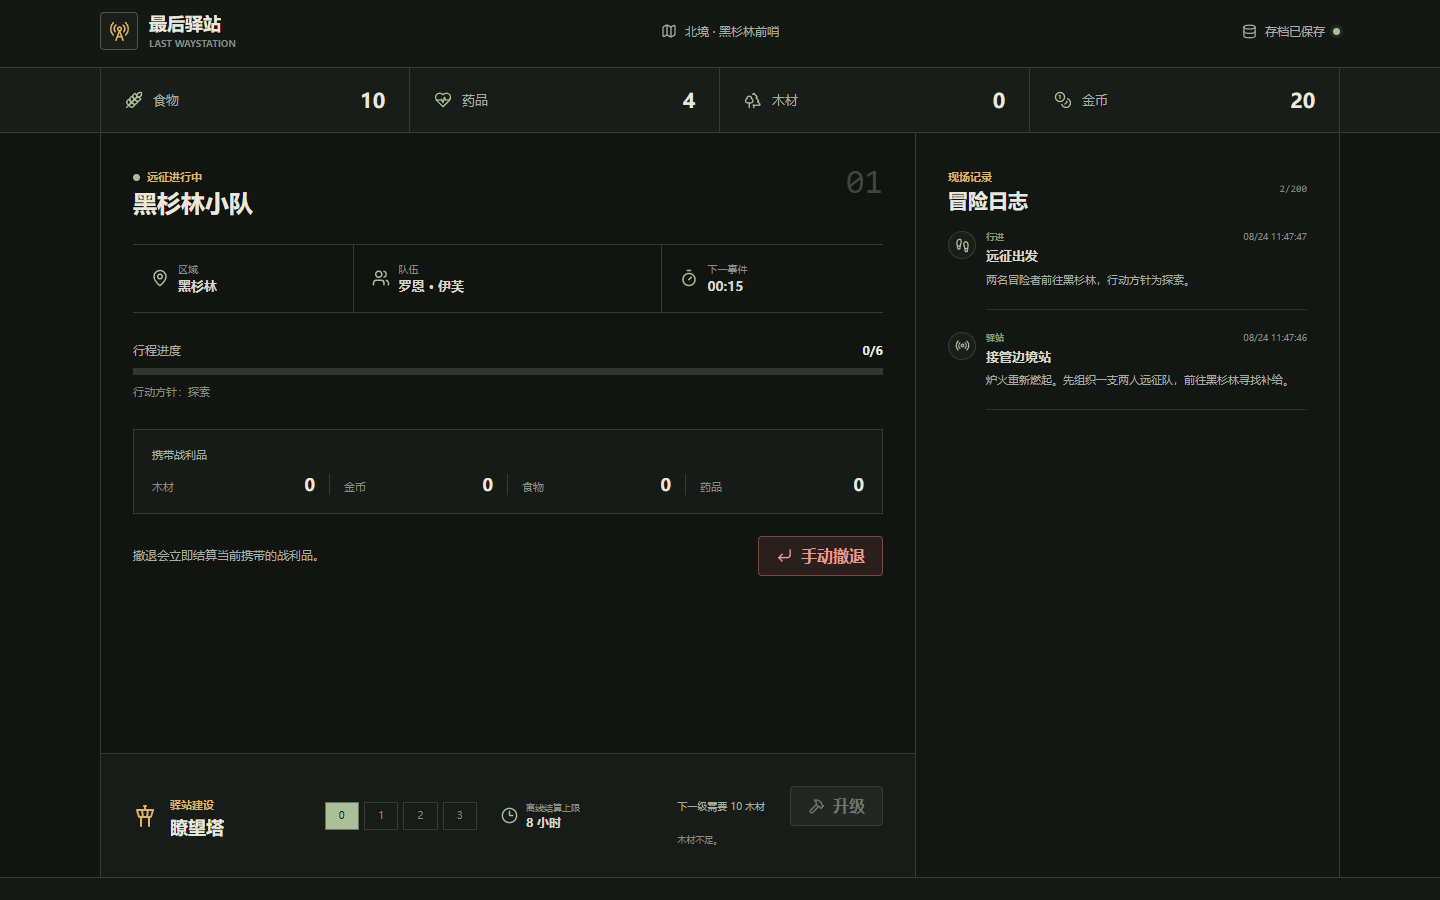
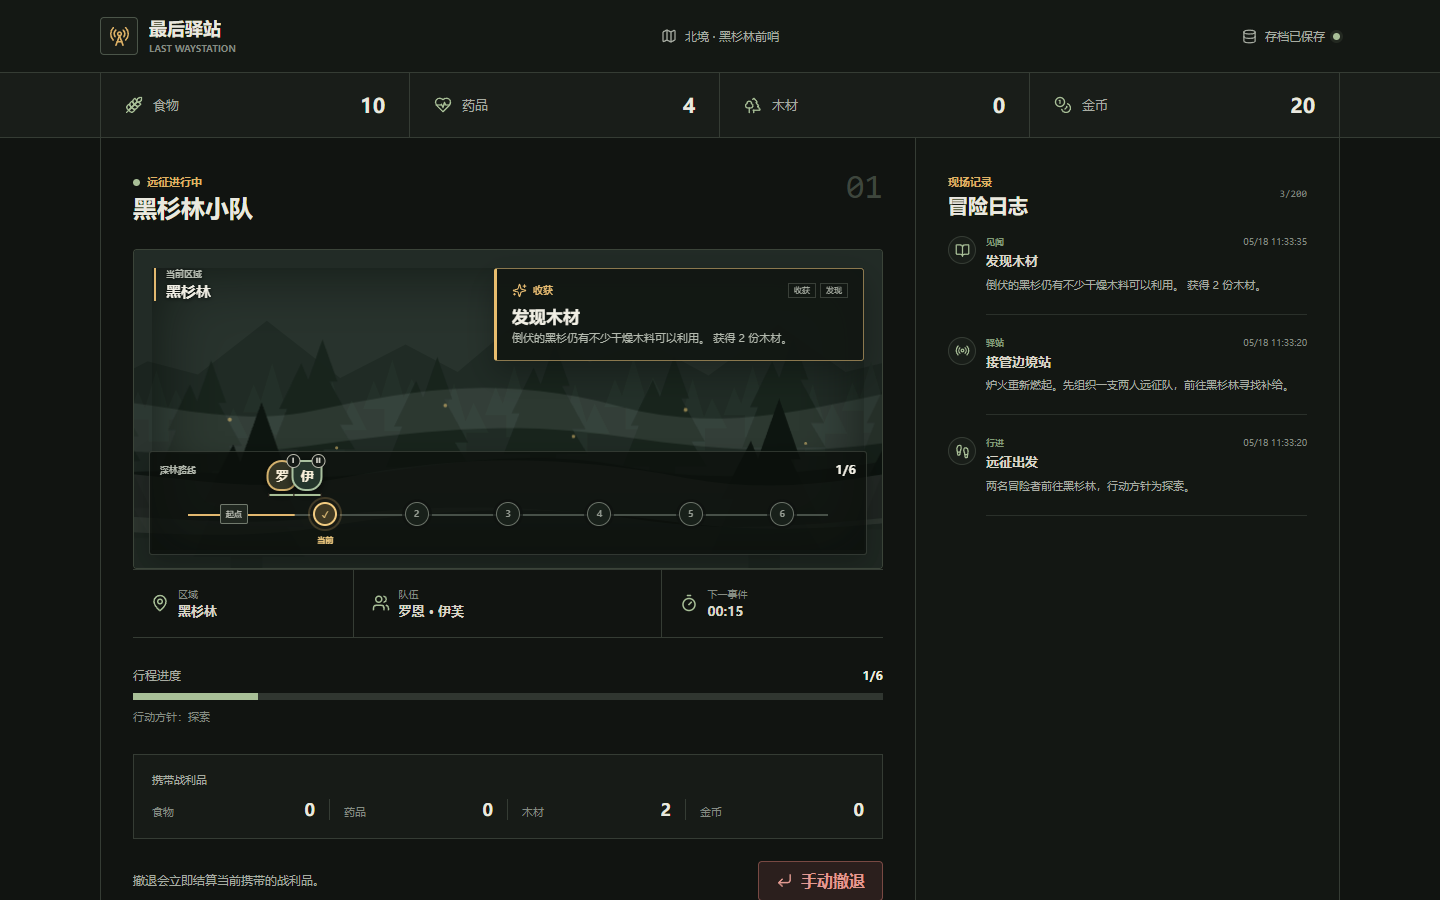
docs: document expedition presentation effects

diff --git a/docs/architecture/presentation-effects.md b/docs/architecture/presentation-effects.md
@@ -1,0 +1,115 @@
+# 表现效果架构
+
+阶段 2B 在核心模拟之上增加远征视觉演出，但不增加新的玩法规则。黑杉林场景、路线位移、事件卡片、伤害与战利品反馈、返程摘要和离线摘要都只是已结算状态的表现。
+
+## 单向数据流
+
+```text
+命令、计时或存档加载
+  -> advanceTo / 核心命令完成结算
+  -> 新 GameState
+  -> 集中状态替换入口记录 transition source
+  -> 纯函数比较前后 GameState
+  -> 临时 VisualEvent
+  -> 有界表现队列
+  -> React + CSS + 内联 SVG 展示
+```
+
+`src/core` 不导入 `src/presentation`。核心层只决定事件选择、伤害、奖励、返程、日志、RNG 和保存状态；表现层只能读取结算前后的快照，不能回写核心结果。
+
+以下内容永远不属于 `GameState`：
+
+- `VisualEvent` 和已消费 ID；
+- 当前事件卡片、浮动数字和动画计时器；
+- 返程或离线摘要的显示、关闭状态；
+- 动画偏好及页面可见性。
+
+因此切换 `system`、`full`、`reduced` 或 `off` 后，相同输入仍产生相同游戏状态和 RNG 状态。刷新、导入和导出也不会持久化或恢复一段动画。
+
+## 状态变化来源
+
+所有替换游戏状态的路径都通过集中入口携带 `GameTransitionSource`。来源是表现策略的输入，不是领域规则。
+
+| 来源 | 含义 | 表现策略 |
+| --- | --- | --- |
+| `bootstrap` | 从浏览器存档初始化并完成离线推进 | 仅在确有进展时显示离线摘要 |
+| `liveTick` | 前台常规计时推进 | 单事件可播放完整反馈，批量变化会合并 |
+| `startCommand` | 开始远征 | 显示队伍出发和路线起点 |
+| `retreatCommand` | 手动撤退 | 核心立即返程，再显示一次返程摘要 |
+| `debugAdvance` | 开发环境的确定性推进 | 短推进可完整显示，长推进使用摘要 |
+| `importSave` | 原子导入并完成必要推进 | 清除旧演出，只保留导入后的单份进展摘要 |
+| `resetGame` | 重置游戏 | 立即清空队列、摘要和旧计时器 |
+| `upgradeCommand` | 建筑升级 | 经过相同入口，但不会伪造远征事件 |
+| `debugCommand` | 其他开发环境状态命令 | 经过相同入口，但不会伪造远征事件 |
+| `backgroundRecovery` | 页面从后台恢复 | 把后台期间的变化合并为一份摘要 |
+
+集中标记来源可避免组件根据日志标题或时间差猜测操作，也让定时器始终通过最新状态引用执行。Strict Mode 的 effect 清理会撤销旧监听器和旧计时器，不能让过期闭包再次入队或保存。
+
+## VisualEvent 推导
+
+`deriveVisualEvents(previous, next, source)` 是无 DOM、无浏览器 API 的纯函数。它不修改输入，不读取 `Date.now()`，不调用 `Math.random()`；稳定 ID 由 transition 指纹、远征 ID、日志 ID、英雄或资源标识组合得到。同一组输入会得到相同顺序和相同 ID，队列可据此消除 Strict Mode 或重复提交造成的重复演出。
+
+表现层可推导以下临时事件：
+
+- `expeditionStarted`：从无活动远征变为有活动远征；
+- `partyAdvanced`：同一远征的 `processedEventCount` 增加；
+- `eventRevealed`：本次 transition 新增了正式主事件日志；
+- `heroDamaged` / `heroHealed`：英雄生命值的真实负差值或正差值；
+- `lootChanged`：同一活动远征 `carriedLoot` 的真实差值；
+- `expeditionReturned`：活动远征被核心结算并清除；
+- `progressSummary`：批量、离线、导入、后台或队列溢出的聚合结果。
+
+返程时携带物转入总资源只在返程摘要中计算一次，不会再伪装成新的掉落。`heroHealed` 只是对可能出现的正生命差值提供通用展示能力；当前阶段没有新增治疗事件或治疗玩法。
+
+## sourceEventId
+
+正式主事件生成日志时写入可选的 `JournalEntry.sourceEventId`。表现层用它查询事件注册表并取得 `safe`、`reward`、`danger`、`combat`、`discovery` 或 `recovery` 标签，标签优先级集中为：
+
+```text
+combat -> danger -> reward -> recovery -> discovery -> safe
+```
+
+`sourceEventId` 是可序列化的事件来源元数据，不是动画状态。系统日志、返程日志和普通追加日志不需要该字段。旧 V1/V2 日志缺少字段仍然合法；字段存在时必须是非空字符串，但注册表中暂时找不到该 ID 也不会使存档失效，事件卡片会按日志类别安全降级为通用样式。
+
+## 批量与队列
+
+一次状态变化可能跨过多个事件。表现层按实际处理数量压缩输出：
+
+| 一次处理量 | 输出 |
+| --- | --- |
+| 0 或 1 个事件 | 输出对应的完整临时事件 |
+| 2 至 3 个事件 | 最多保留最后一个重要事件，并追加聚合摘要 |
+| 超过 3 个事件 | 只输出一份 `progressSummary` |
+
+若同一批次已经返程，上述压缩结果会额外保留唯一的 `expeditionReturned`，供准备界面显示返程结算；它不会恢复被压缩的逐条事件演出。
+
+队列最多保留 8 项。超限时现有项按 transition 分组后折叠为一份摘要；事件数、完成远征数、资源差值和英雄生命差值会聚合，而不是静默丢弃。已见 ID 使用有界集合去重，每项只消费一次。
+
+`bootstrap`、`startCommand`、`importSave` 和 `backgroundRecovery` 使用替换语义，不会把新摘要或新远征接在陈旧演出后面。`importSave` 与 `resetGame` 还会清空表现层的已见 ID 集合，使导入较早存档或固定时间重开游戏后仍能正确呈现新的 transition；`resetGame` 同时清空队列。Provider 统一拥有展示计时器，卸载、导入或重置时会取消旧计时器；动画结束回调只消费表现项，绝不修改正式游戏状态。
+
+## 后台与离线
+
+页面隐藏时，CSS 环境循环暂停，正式推进仍由既有计时和 `advanceTo` 负责。`visibilitychange` 监听只改变表现策略：后台期间不积压逐条卡片，回到前台后把实际变化合并为一份 `background` 摘要。若恢复后的撤退或升级命令让远征返程，则以后台首个快照和命令后的最终状态生成唯一返程摘要，避免把携带战利品同时显示为后台收入和返程收入。监听器在 Provider 卸载时移除。
+
+浏览器启动和存档导入继续走既有流程：解码、迁移、归一化、`advanceTo`。仓储层保留推进前的合法归一化状态，与推进后的状态纯比较，只把 `GameTransitionSummary` 作为不持久化的加载元数据返回；完整旧状态不会暴露给 UI。没有实际事件、返程、资源或生命变化时不显示离线摘要，刷新也不会重放已保存日志的演出。
+
+## 动画偏好
+
+动画偏好使用独立 key `last-waystation.ui-preferences.v1`，不会进入游戏存档，也不会被游戏导入或重置覆盖。页面根节点的 `data-motion-preference` 保存用户选择，`data-motion` 保存解析后的有效模式：
+
+- `system`：根据 `prefers-reduced-motion: reduce` 解析为 `reduced`，否则为 `full`；
+- `full`：启用环境循环、路线位移、轻量事件卡片与浮动反馈；
+- `reduced`：移除大幅位移、震动和视差，以短淡入或即时更新保留状态提示；
+- `off`：关闭所有非必要动画，但保留静态场景、路线、数字和文字摘要。
+
+偏好读取失败、JSON 损坏或值非法时回退到 `system`。CSS 必须同时尊重有效 `data-motion` 与系统 reduced-motion 承诺；隐藏动画绝不能隐藏信息。
+
+## 实现边界
+
+- 场景使用 React、CSS、内联 SVG 和已有本地图标，不发起远程图片或动画资源请求。
+- 环境循环只修改 `transform` 和 `opacity` 等合成友好属性，不驱动 React 每帧更新。
+- 路线节点数来自 `activeExpedition.maxEventCount`，当前正式内容为六个事件，但表现层不硬编码六节点。
+- 事件卡片不会抢焦点；精简后的结果会进入 `aria-live="polite"`，完整日志继续承担叙事。
+- 动画不能延迟 `activeExpedition` 清除、奖励结算、自动保存或用户操作。
+
+视觉验证方法见 [视觉测试指南](../development/visual-testing.md)。

diff --git a/docs/development/visual-testing.md b/docs/development/visual-testing.md
@@ -1,0 +1,130 @@
+# 视觉测试指南
+
+阶段 2B 的视觉测试验证状态表达、动画策略、响应式布局和生产资源，而不是逐帧复刻 CSS 动画。游戏结果仍由核心单元测试和流程 E2E 验证。
+
+## 准备环境
+
+安装锁文件依赖和 Chromium：
+
+```bash
+npm ci
+npx playwright install chromium
+```
+
+常规开发 E2E 会按 Playwright 配置自动启动开发服务器。生产冒烟需要先生成 `dist/`：
+
+```bash
+npm run build
+npm run test:e2e:prod
+```
+
+运行全部开发 E2E：
+
+```bash
+npm run test:e2e
+```
+
+只运行视觉相关套件：
+
+```bash
+npx playwright test tests/e2e/expedition-visuals.spec.ts tests/e2e/motion-preferences.spec.ts tests/e2e/offline-summary.spec.ts
+```
+
+需要人工观察过渡时使用 headed 模式；断言仍应等待可访问名称、测试 ID、日志或存档状态等语义结果：
+
+```bash
+npx playwright test tests/e2e/expedition-visuals.spec.ts --headed
+```
+
+失败时检查 `test-results/` 中的截图和 trace，以及 `playwright-report/`。这些目录是临时产物，不能提交。
+
+## 动画模式矩阵
+
+动画控制位于界面的“动画效果”字段组。测试可通过可访问标签选择模式，并检查根节点属性：
+
+| 选择 | `data-motion-preference` | 有效 `data-motion` | 核心检查 |
+| --- | --- | --- | --- |
+| 跟随系统 | `system` | `full` 或 `reduced` | 与浏览器 `prefers-reduced-motion` 一致 |
+| 完整 | `full` | `full` | 环境循环和过渡可用，状态立即完成结算 |
+| 简化 | `reduced` | `reduced` | 无大幅位移、震动或视差，文字反馈保留 |
+| 关闭 | `off` | `off` | 非必要动画关闭，静态场景与全部信息保留 |
+
+系统模式用 Playwright context 的 `reducedMotion: 'reduce'` 和 `reducedMotion: 'no-preference'` 分别验证。切换设置应即时生效并写入 `last-waystation.ui-preferences.v1`；刷新、导入游戏存档和重置游戏后选择应保持。不要把 UI 偏好写进合成游戏存档。
+
+普通业务 E2E 默认使用 reduced motion，减少时间相关波动。专门验证视觉演出时显式选择完整模式，验证功能降级时再分别选择简化或关闭模式。无论哪种模式，核心状态、日志、资源、英雄生命和 RNG 断言必须一致。
+
+## 确定性场景
+
+不要等待多个真实的 15 秒周期。视觉 E2E 应复用 `tests/e2e/testHarness.ts` 的合法 V2 合成状态和存档写入方式，固定 `savedAt`、活动远征、事件时间及 RNG 状态，再通过开发推进工具或到期的正式 tick 触发变化。
+
+每类反馈至少同时验证视觉提示和正式结果：
+
+- 场景：黑杉林背景存在，路线节点数等于存档中的 `maxEventCount`，初始和推进后的数字进度正确；
+- 事件：卡片或静态提示出现，冒险日志新增同一正式事件；
+- 伤害：反馈关联实际受伤英雄，显示值等于英雄生命差值；
+- 战利品：资源提示等于 `carriedLoot` 差值，返程转存不重复显示掉落；
+- 返程：核心远征、资源和自动保存先完成，摘要只出现一次，刷新后不重放；
+- 离线：注入保存时间和事件时间位于过去的合法 V2 活动远征，只出现一份聚合摘要，日志仍包含正式结算；
+- 后台：隐藏页面期间不积压卡片，恢复后只有合并摘要，推进结果不受可见性影响。
+
+测试存档不得含个人信息，也不能绕过存档解码、迁移、归一化或 `advanceTo`。损坏存档路径不得伪造离线摘要。
+
+## 断言原则
+
+- 等待语义状态，不用大段 `waitForTimeout` 猜测动画结束时间。
+- 不断言某一帧的坐标、透明度、雾的位置或抖动角度。
+- 不把易变 CSS 类名当作主要定位；必要时使用稳定且有限的 `data-testid`。
+- 不要求事件卡片获取焦点；检查 `aria-live="polite"` 的精简文字和日志即可。
+- 不用颜色作为唯一断言；同时检查标签、图形、边框状态或可访问文本。
+- 不为每个动画帧创建截图快照。截图只覆盖有代表性的稳定状态和布局回归。
+- 不通过延长任意超时掩盖竞态。失败时先查看 trace 中的状态替换、存档和可见性事件。
+
+## 视口检查
+
+至少检查以下视口：
+
+| 视口 | 重点 |
+| --- | --- |
+| 1440 x 900 | 场景、状态区和日志的桌面信息层级 |
+| 768 x 1024 | 中等宽度下的栏位折行和摘要布局 |
+| 390 x 844 | 常见移动端的场景高度、设置触控和日志滚动 |
+| 360 x 800 | 路线节点、长文本和摘要无横向溢出 |
+
+在每个移动视口检查 `document.documentElement.scrollWidth <= document.documentElement.clientWidth`，同时确认事件卡片不会遮挡撤退按钮，浮动结果不会越出场景，动画设置可操作，日志可滚动且不依赖 hover。
+
+## 生成生产截图
+
+提交的截图必须来自最新生产构建。先构建并启动预览，使用 Vite 在终端输出的地址，不要在文档、提交信息或截图中记录临时地址：
+
+```bash
+npm run build
+npm run preview
+```
+
+使用浏览器自动化写入完全合成且通过 V2 校验的活动远征存档，然后重新加载应用。选择“完整”模式，触发一个确定性事件并停在可读的静态时刻；画面应展示黑杉林场景、路线、两名英雄标记、数字进度，以及事件卡片或当前结果。不得显示开发推进工具、浏览器开发工具、个人数据、本机路径或令牌。
+
+分别设置并保存：
+
+| 输出 | 视口 |
+| --- | --- |
+| `docs/images/game-desktop.png` | 1440 x 900 |
+| `docs/images/game-mobile.png` | 390 x 844 |
+
+截图后用生产构建再检查一次：控制台无项目错误，HTML、JS、CSS、图标和本地场景资源无 404，没有远程图片请求；移动截图无横向溢出，关键按钮和日志仍可见。PNG 应按实际界面尺寸导出并保持合理文件大小，不提交视频、GIF、Playwright 报告或其他临时产物。
+
+## 提交前检查
+
+视觉改动除相关定向测试外，还必须通过完整验证：
+
+```bash
+npm run lint
+npm run typecheck
+npm run validate:content
+npm run test:run
+npm run simulate:balance:check
+npm run build
+npm run test:e2e
+npm run test:e2e:prod
+```
+
+在 Pull Request 中记录桌面、390 px 和 360 px 的人工检查，完整、简化、关闭及系统 reduced motion 结果，后台恢复和离线摘要结果，以及构建体积、控制台错误和资源 404 数量。视觉层不能改变平衡模拟、`advanceTo` 语义、事件奖励或 RNG 顺序。

diff --git a/CONTRIBUTING.md b/CONTRIBUTING.md
@@ -60,3 +60,14 @@ npx playwright install chromium
 - 平衡报告中的差异先作为客观观察记录；除非违反不变量，不要把内容 PR 扩大为无关的大规模调平衡。
 
 完整示例与字段说明见 [内容创作指南](docs/development/content-authoring.md)。更多英雄、区域、装备、制作和大规模事件内容仍需先通过功能建议 Issue 讨论范围。
+
+## 视觉贡献
+
+- 视觉演出只能表现已经完成的核心结算。不得从动画回调修改 `GameState`，不得用 UI 定时器推进远征，也不得为了等待动画而延迟奖励、返程、自动保存或其他正式状态变化。
+- 表现逻辑放在 `src/presentation` 或对应展示组件中，不能进入 `src/core`；核心层也不能反向导入 `VisualEvent`、React、DOM 或浏览器 API。详细依赖边界见 [表现效果架构](docs/architecture/presentation-effects.md)。
+- 不得把动画队列、持续时间、关闭状态或临时摘要写入游戏存档，也不得让视觉代码消费或改变 RNG。动画偏好使用独立的 UI 偏好存储。
+- 场景资源必须随仓库提供。不要新增远程图片、字体、视频、GIF、动态脚本或第三方动画引擎；优先使用轻量的 React、CSS、内联 SVG 和现有图标。
+- 每个视觉变化都必须支持 `prefers-reduced-motion` 和游戏内简化、关闭模式。关闭动画后，进度、事件结果、伤害、战利品及返程或离线摘要仍须有完整文字表达。
+- 装饰图形应对辅助技术隐藏；核心进度需要可读数字，事件提示使用克制的 live region，颜色不能是唯一的状态区别，也不得加入高频闪烁。
+- 视觉 Pull Request 需要验证至少 1440 x 900、390 x 844 和 360 x 800 的布局，提供桌面与移动端结果，并记录控制台错误、资源加载失败和横向溢出检查。
+- 测试应等待语义状态，不等待动画的固定毫秒或比较每一帧。业务流程默认减少动画，专门的视觉用例再显式启用完整模式。运行方式和生产截图要求见 [视觉测试指南](docs/development/visual-testing.md)。

diff --git a/CHANGELOG.md b/CHANGELOG.md
@@ -10,18 +10,26 @@
 - 英雄固定特质元数据、内容注册表与 `validate:content` 结构化校验 CLI。
 - 复用正式命令、RNG、返程结算和 `advanceTo` 的确定性平衡模拟器，区分 onboarding 与 steady-state。
 - Save Schema V2，以及已解锁区域、医务室等级、英雄特质 ID 和远征旗标字段。
+- 动态剪影式黑杉林远征场景、按 `maxEventCount` 生成的路线节点和两名英雄标记。
+- 事件卡片、对应英雄的伤害反馈和基于真实状态差值的战利品反馈。
+- 自动及手动返程摘要，以及聚合显示的离线和后台进展摘要。
+- 与游戏存档分离的动画偏好，支持跟随系统、完整、简化和关闭模式。
 
 ### Changed
 
 - 六个现有黑杉林事件迁移为纯数据，并保持现有 ID、区域、奖励、伤害和方针语义。
 - V1 存档、导入文件和生产 `localStorage` key 继续兼容；合法 V1 会无损迁移并安全回写 V2。
 - CI 在单元测试之外增加内容校验和 1000 seeds 平衡不变量检查。
+- 正式主事件日志增加可选 `sourceEventId`，供表现层关联事件标签；旧 V2 日志和未知但合法的来源 ID 继续兼容。
+- 远征视觉反馈补充文字等价信息、`prefers-reduced-motion`、键盘可操作设置和 360 px 起的移动端布局。
 
 ### Testing
 
 - 增加事件条件、选择、RNG 消耗、检定、效果顺序与六事件集成测试。
 - 增加 V1 空闲、活跃、受伤和未来时间迁移测试，以及浏览器刷新与 V2 导出回归。
 - 增加模拟场景生成、确定性、CLI 退出码和稳定 JSON/Markdown 报告测试。
+- 增加视觉事件纯推导、批量摘要、有界队列和动画偏好持久化测试。
+- 增加远征场景、事件反馈、返程、离线摘要、动画关闭及移动端的浏览器回归，并继续覆盖生产构建冒烟。
 
 ## v0.1.0-alpha.0 - 2026-08-24
 
